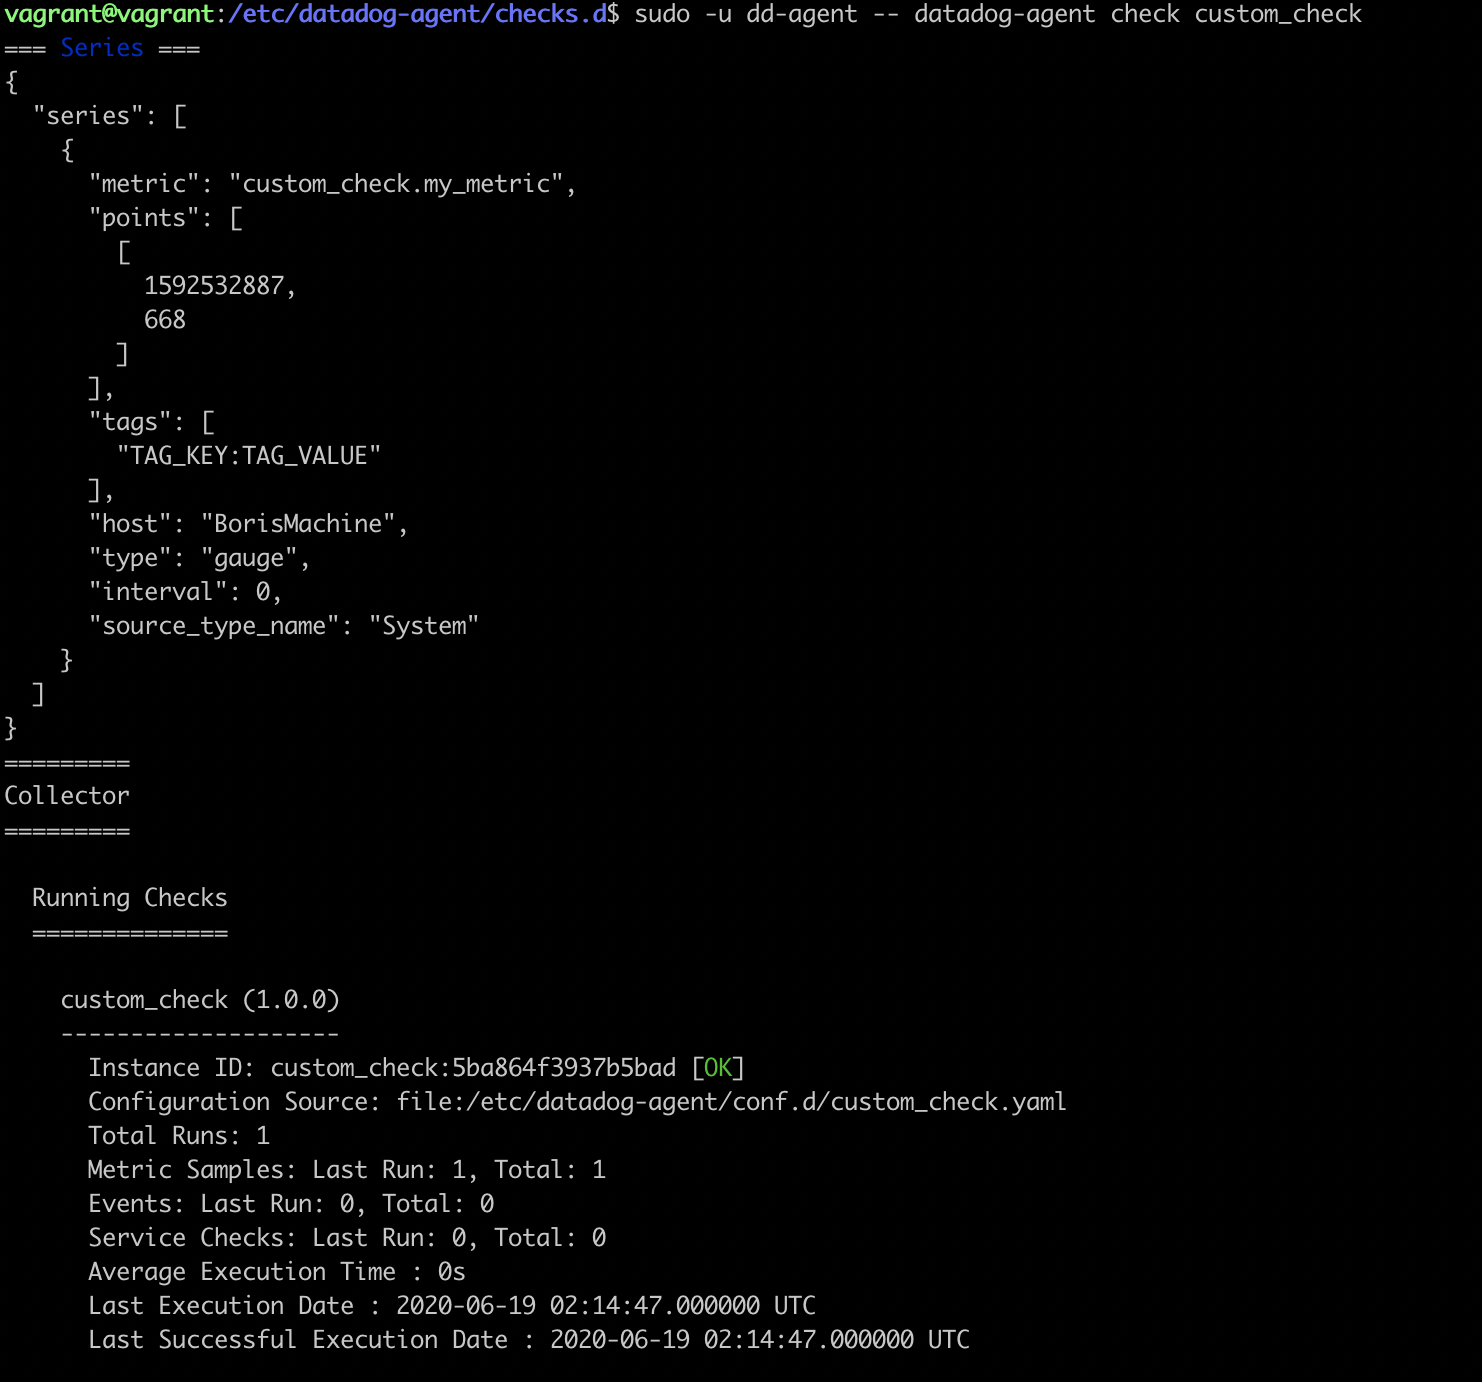
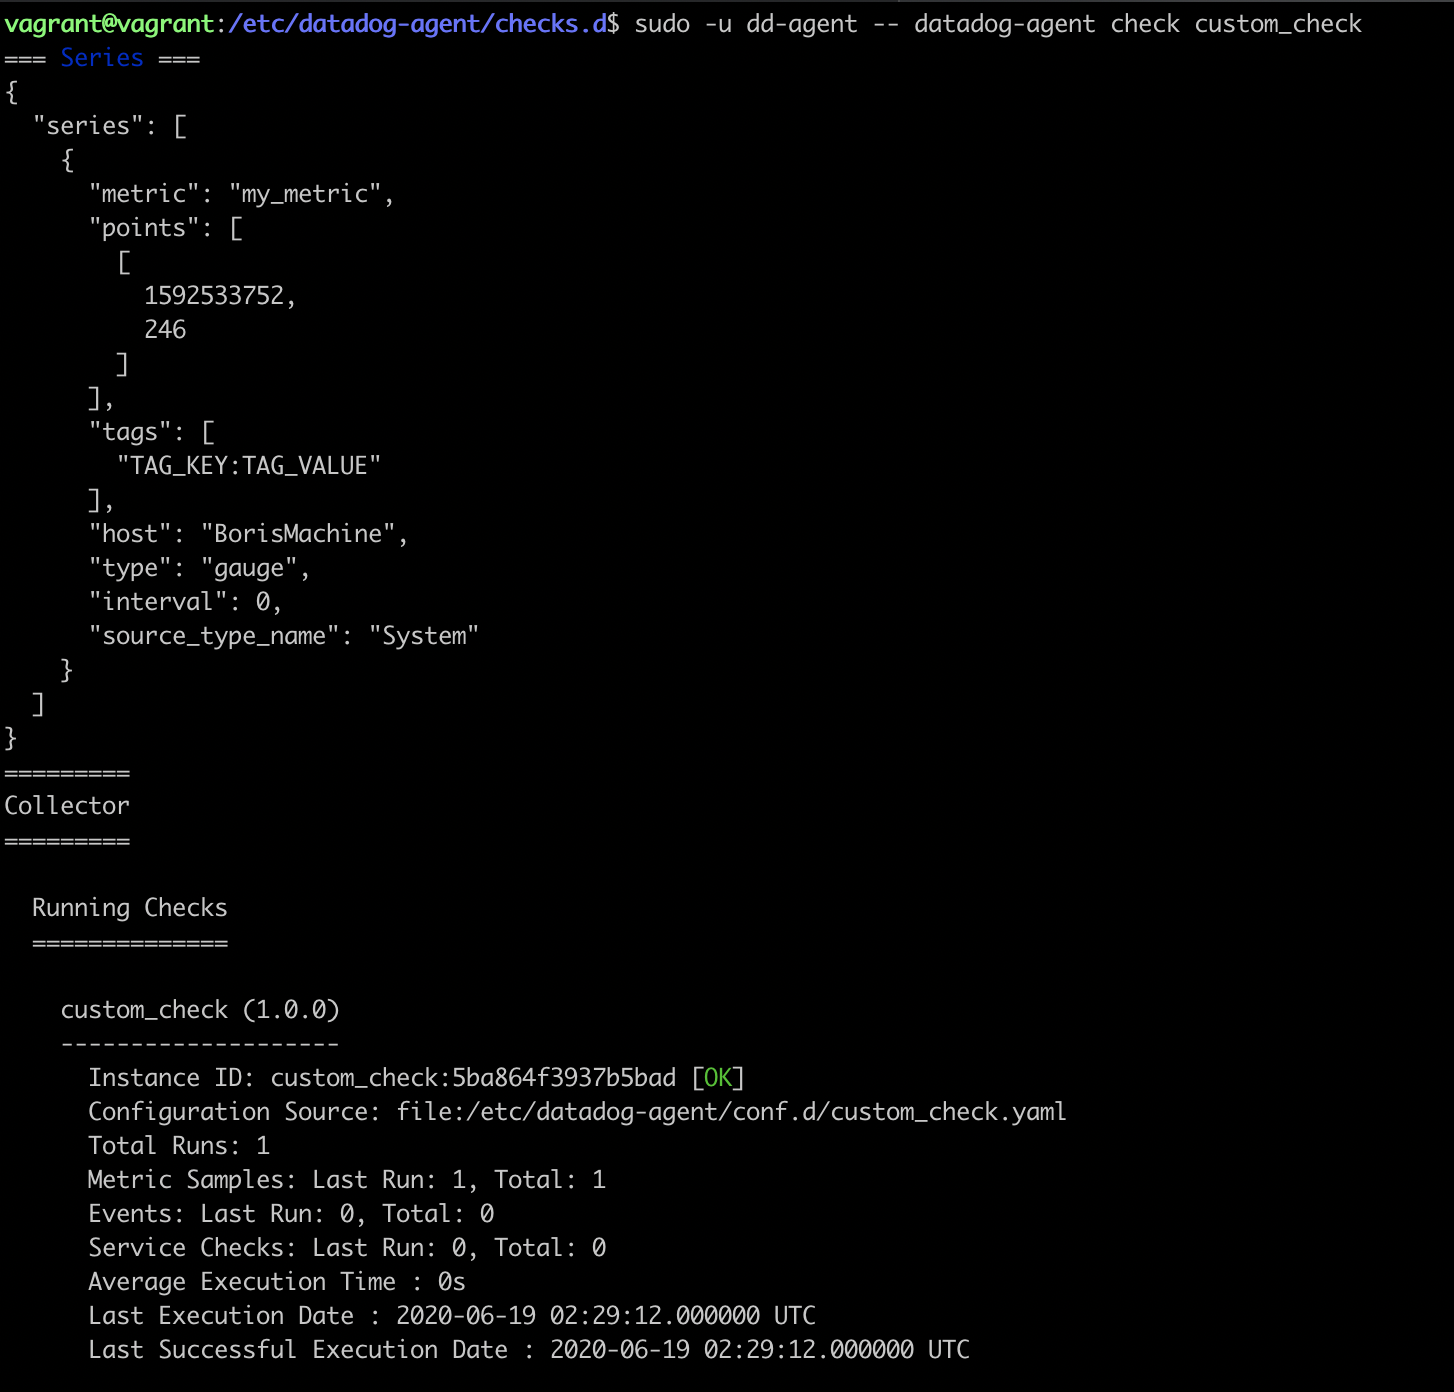
no message

diff --git a/answers.md b/answers.md
@@ -277,3 +277,13 @@ I will also add "developer" notes that should be considered outside of the custo
 	```
 
      <img src="https://github.com/barkanb/hiring-engineers/blob/master/Images/agent-10.png" width="70%" height="70%"></a>
+
+7. The new check and the relevant information should appear in the host map. 
+	Notice that the name of the file is the namespace for the check "my_metric"
+
+	     <img src="https://github.com/barkanb/hiring-engineers/blob/master/Images/agent-11.png" width="70%" height="70%"></a>
+
+	The metric can also be set without a name space. 
+
+	<img src="https://github.com/barkanb/hiring-engineers/blob/master/Images/agent-12.png" width="40%" height="40%"></a>
+
